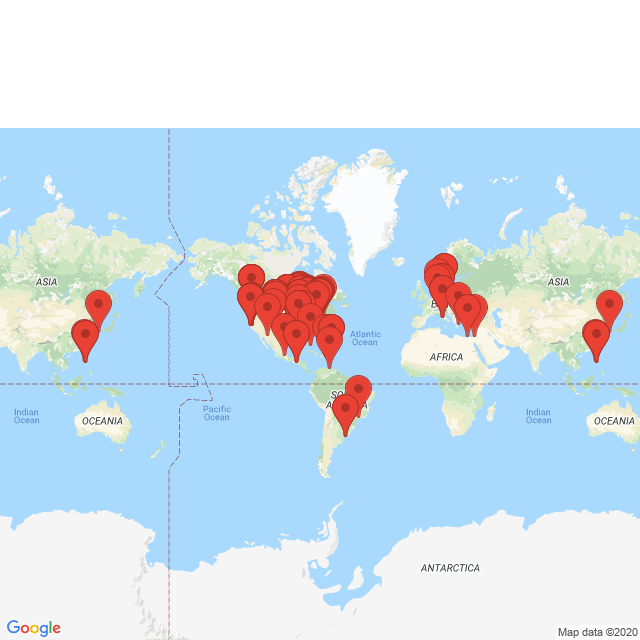
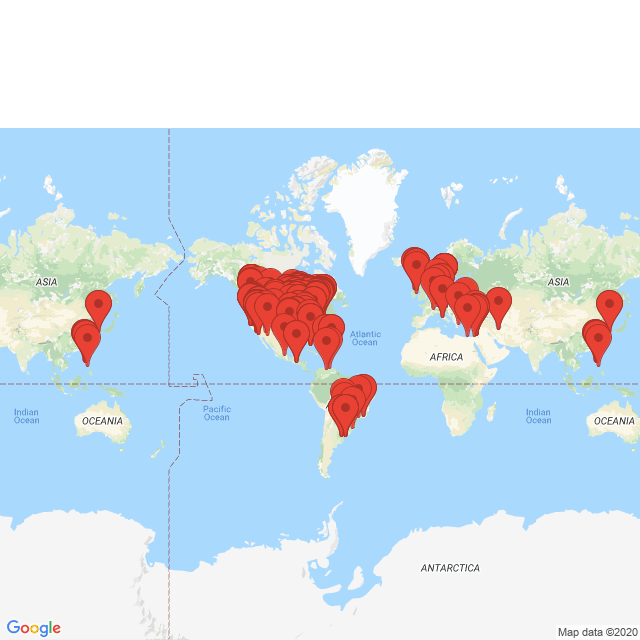
Buttons Linking Part1

diff --git a/index.css b/index.css
@@ -16,7 +16,7 @@ body{
     margin-top: 2%;
   }
 
-  #searchside, #listside, #saveside{
+  #searchside, #listside, #saveside, #statsside{
     height: 100%;
     width: 0%;
     position: fixed;

diff --git a/index.php b/index.php
@@ -17,7 +17,7 @@
     <a onclick="openSearch()" class="txt filterTxt">FILTER</a>
     <a href="pag.php" class="txt listTxt">LIST</a>
     <a onclick="openSave()" class="txt saveTxt">SAVE</a>
-    <a href="chartColour.php" class="txt statsTxt">STATS</a>
+    <a onclick="openStats()" class="txt statsTxt">STATS</a>
   </div>
   <div id="map">
   </div>
@@ -64,13 +64,29 @@ include 'valWeapon.php';
       
 
     </div>
-  </div>
+    </div>
+    <div id="statsside">
+    <a id="close" onclick="closeNav()"><button id="closebtn">X</button></a>
+    <div id="butoane">
+      <button class="btn btn1">1</button>
+      <button class="btn btn2" >2</button>
+      <button class="btn btn3" >3</button>
+      
+
+    </div>
+</div>
   <script>
     function openSearch() {
       document.getElementById("searchside").style.width = "20rem";
       document.getElementById("listside").style.width = "0%";
       document.getElementById("saveside").style.width = "0%";
 
+    }
+
+    function openStats() {
+      document.getElementById("statsside").style.width = "20rem";
+      document.getElementById("saveside").style.width = "0%";
+      document.getElementById("searchside").style.width = "0";
     }
     
     function openSave() {

diff --git a/downloadPNG.php b/downloadPNG.php
@@ -21,7 +21,8 @@ for ($i = 0; $i < $responseSize; $i++) {
 
 $totalMarkers = 'markers=color:red%7Clabel:%7C' . $lat[0] . ',' . $long[0];
 
-for ($i = 1; $i < 100; $i++) {
+
+for ($i = 1; $i < 300; $i++) {
     if ($long[$i] != NULL && $lat[$i] != NULL) {
         
         $totalMarkers = $totalMarkers . '&markers=color:red%7Clabel:%7C' . $lat[$i] . ',' . $long[$i];
